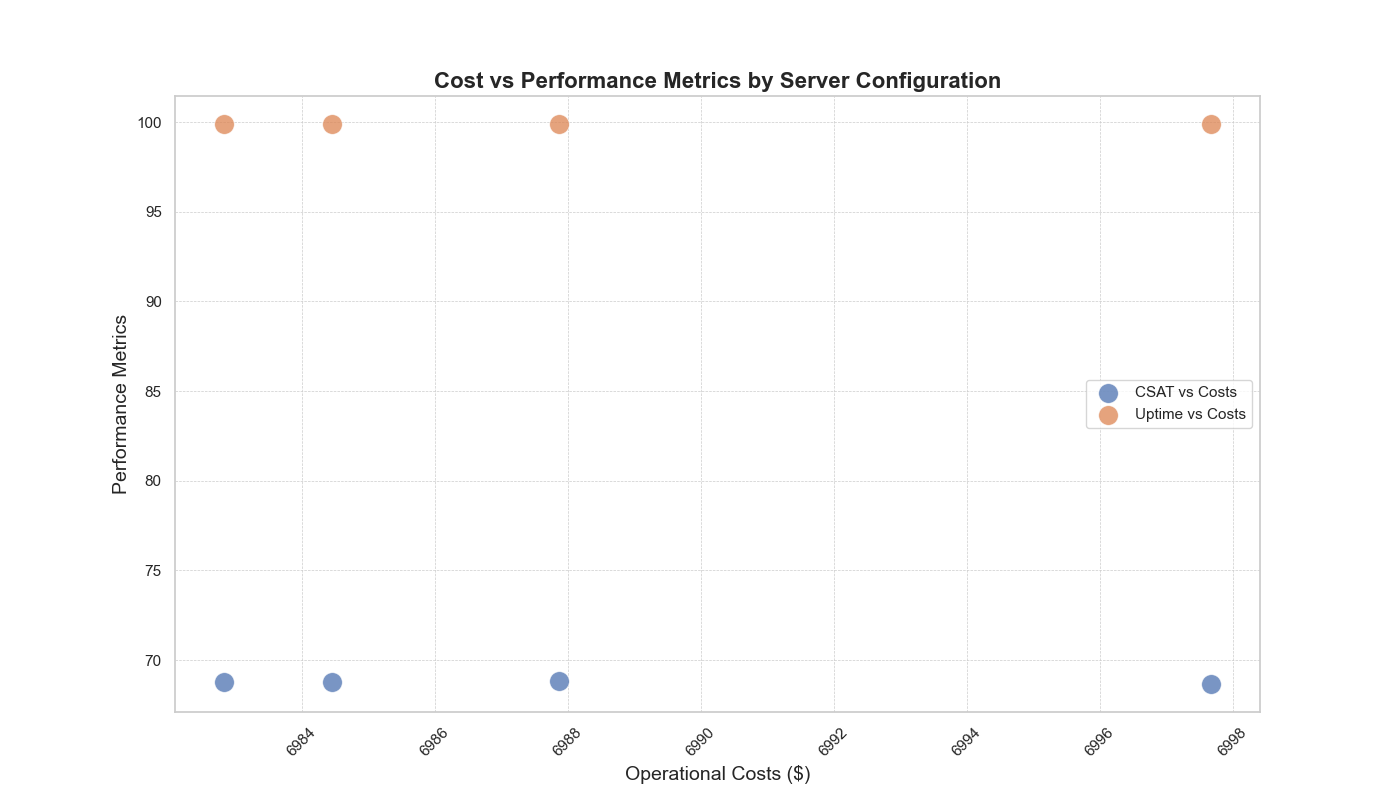
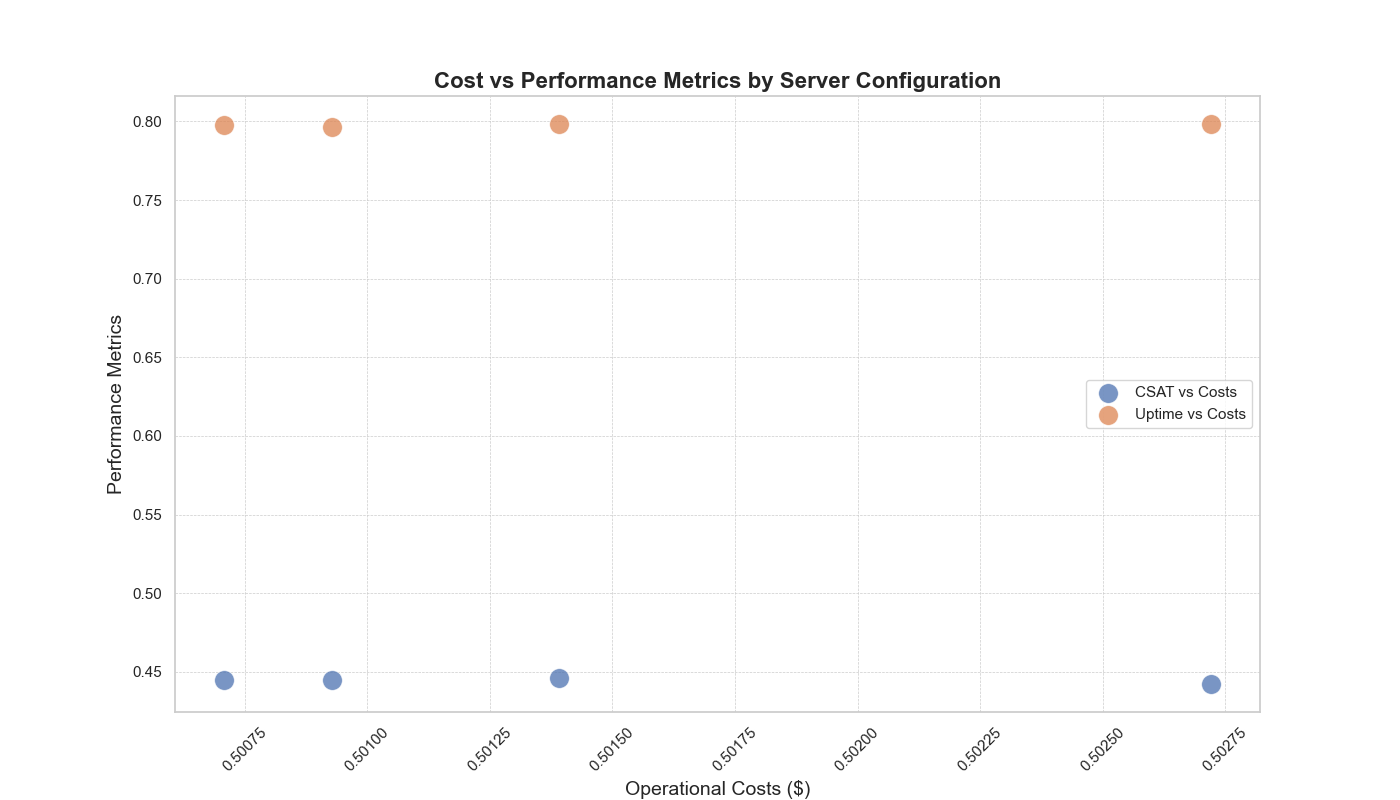
initial 3.0

diff --git a/main.py b/main.py
@@ -48,6 +48,8 @@ BUSINESS_METRICS = [
     "Response Time (ms)",
 ]
 
+# Combined features for clustering
+CLUSTERING_FEATURES = FEATURES + BUSINESS_METRICS
 
 def main():
     # Read data from CSV files
@@ -64,130 +66,62 @@ def main():
     print("Business Data Columns:", business_data.columns.tolist())
 
     # Step 1: Normalize the data
-    normalized_data = normalize_data(operational_data, FEATURES)
+    normalized_operational_data = normalize_data(operational_data, FEATURES)
+    normalized_business_data = normalize_data(business_data, BUSINESS_METRICS)
 
-    # Plot the combined bubble chart
-    plot_all_metrics_single_chart(normalized_data, FEATURES)
+    print("Operational Data Columns:", normalized_operational_data.columns.tolist())
+    print("Business Data Columns:", normalized_business_data.columns.tolist())
 
-    # Plot the bubble chart
-    plot_bubble_chart(operational_data)
+    # Merge the data on Timestamp and Server Configuration
+    combined_data = pd.merge(normalized_operational_data, normalized_business_data, on=["Timestamp", "Server Configuration"])
 
-    # Step 2: Clean and Scale Data
-    operational_data, X_scaled_cleaned = clean_and_scale_data(
-        operational_data, FEATURES
-    )
+    # Display the head of the merged data to verify
+    print("Combined Data Columns:", combined_data.columns.tolist())
+    print("Combined Data Head:\n", combined_data.head())
 
-    # Step 3: Apply K-Means Clustering
-    clusters_cleaned, kmeans = apply_kmeans_clustering(X_scaled_cleaned)
-    operational_data["cluster"] = clusters_cleaned
+    # Clean and scale the data
+    cleaned_data, scaled_data = clean_and_scale_data(combined_data, CLUSTERING_FEATURES)
 
-    # Step 4: Visualize Clusters
-    visualize_clusters(operational_data, FEATURES, clusters_cleaned)
+    # Apply K-Means clustering
+    clustered_data, kmeans_model = apply_kmeans_clustering(scaled_data, num_clusters=5)
 
-    # Step 5: Apply PCA and plot the results
-    pca_df, pca = apply_pca(X_scaled_cleaned, clusters_cleaned)
-    pca_loadings = get_pca_loadings(pca, FEATURES)
-    print("PCA Loadings:")
-    print(pca_loadings)
+    # Check the clustered data
+    print("Clustered Data Head:\n", clustered_data[:5])  # Use slicing for numpy array
 
-    # Save PCA loadings
-    pca_loadings.to_csv(os.path.join(OUTPUT_DIR, "pca_loadings.csv"))
+    # Add the cluster labels to the cleaned data
+    cleaned_data["cluster"] = clustered_data
 
-    # Plot PCA Loadings
-    plot_pca_loadings(pca_loadings)
+    # Verify the 'Cluster' column addition
+    print("Cleaned Data Columns after adding 'Cluster':", cleaned_data.columns.tolist())
 
-    # Step 6: Analyze Distributions and Variances within Clusters
-    analysis_results = analyze_distributions(operational_data, FEATURES)
-
-    # Step 7: Generate Optimization Recommendations
-    optimization_recommendations = generate_optimization_recommendations(
-        analysis_results
-    )
-    with open(os.path.join(OUTPUT_DIR, "optimization_recommendations.txt"), "w") as f:
-        for rec in optimization_recommendations:
-            f.write(rec + "\n")
-
-    # Ensure the cluster labels are also in the business data
-    business_data["cluster"] = operational_data["cluster"]
-
-    # Step 8: Calculate Cluster Business Summary
-    cluster_business_summary = calculate_cluster_business_summary(
-        business_data, BUSINESS_METRICS
-    )
-    print("Cluster Business Summary:")
-    print(cluster_business_summary)
-
-    # Save cluster business summary
-    cluster_business_summary.to_csv(
-        os.path.join(OUTPUT_DIR, "cluster_business_summary.csv")
-    )
-
-    # Plot Business Insights with Arrows
-    plot_business_insights_with_arrows(
-        cluster_business_summary, generate_business_insights(cluster_business_summary)
-    )
-
-    # Merge operational and business data for correlation analysis
-    combined_data = pd.merge(
-        operational_data,
-        business_data,
-        on=["Timestamp", "Server Configuration", "cluster"],
-    )
-
-    # Step 9: Generate Correlation Matrix
-    correlation_matrix = generate_correlation_matrix(
-        combined_data, BUSINESS_METRICS + FEATURES
-    )
-
-    # Save correlation matrix
-    correlation_matrix.to_csv(os.path.join(OUTPUT_DIR, "correlation_matrix.csv"))
-
-    # Step 10: Plot Temporal Trends of Business Metrics
-    # plot_temporal_trends(business_data, BUSINESS_METRICS)
-
-    # Step 11: Generate Cluster Profiles
+    # Generate cluster profiles
     cluster_profiles = generate_cluster_profiles(
-        combined_data, FEATURES, BUSINESS_METRICS
+        cleaned_data, FEATURES, BUSINESS_METRICS
     )
+
+    print("Cluster Profiles:\n", cluster_profiles)
 
     # Normalize cluster profiles for plotting
-    normalized_cluster_profiles = normalize_profiles(cluster_profiles)
-
-    # Step 12: Identify Best and Worst Performing Clusters
-    best_cluster, worst_cluster = identify_best_worst_clusters(
-        cluster_profiles, "Customer Satisfaction (CSAT)"
+    normalized_cluster_profiles = normalize_data(
+        cluster_profiles, FEATURES + BUSINESS_METRICS
     )
-    print(f"Best Performing Cluster: {best_cluster}")
-    print(f"Worst Performing Cluster: {worst_cluster}")
 
     # Save cluster profiles
     cluster_profiles.to_csv(os.path.join(OUTPUT_DIR, "cluster_profiles.csv"))
 
-    # Step 13: Generate Business Insights
-    business_insights = generate_business_insights(cluster_business_summary)
-    with open(os.path.join(OUTPUT_DIR, "business_insights.txt"), "w") as f:
-        for insight in business_insights:
-            f.write(insight + "\n")
+    # Plot summary statistics
+    plot_summary_statistics(combined_data, FEATURES + BUSINESS_METRICS)
 
-    # Step 14: Plot Resource Utilization Efficiency by Cluster
-    plot_resource_utilization_efficiency(normalized_cluster_profiles)
+    # Plot temporal trends
+    plot_temporal_trends(business_data, BUSINESS_METRICS)
 
-    # Step 15: Plot Cost-Benefit Analysis by Cluster
-    plot_cost_benefit_analysis(cluster_profiles)
+    # Visualize clusters
+    # visualize_clusters(cleaned_data, "cluster", FEATURES + BUSINESS_METRICS)
 
-    # Aggregate metrics by Server Configuration
-    server_config_summary = combined_data.groupby("Server Configuration")[
-        FEATURES + BUSINESS_METRICS
-    ].mean()
-
-    # Normalize server configuration summary for plotting
-    normalized_server_config_summary = normalize_profiles(server_config_summary)
-
-    # Step 16: Plot Performance Metrics by Server Configuration
-    plot_server_config_metrics(normalized_server_config_summary)
-
-    # Step 17: Plot Cost vs Performance Metrics by Server Configuration
-    plot_cost_vs_performance(server_config_summary)
+    # Apply PCA and plot the results
+    pca_df, pca = apply_pca(scaled_data, clustered_data)
+    pca_loadings = get_pca_loadings(pca, FEATURES)
+    print("PCA Loadings:\n", pca_loadings)
 
 
 if __name__ == "__main__":

diff --git a/visualization.py b/visualization.py
@@ -8,6 +8,7 @@ import pandas as pd
 from scipy.spatial import ConvexHull
 from utils import save_plot
 
+
 def plot_summary_statistics(data, features):
     """
     Plot summary statistics for the specified features.
@@ -16,10 +17,11 @@ def plot_summary_statistics(data, features):
     - data (pd.DataFrame): DataFrame containing the data.
     - features (list): List of features to plot summary statistics for.
     """
-    summary = data[features].describe().T
-    fig, ax = plt.subplots(figsize=(12, 8))
-    sns.heatmap(summary, annot=True, fmt=".2f", cmap="coolwarm", linewidths=0.5, ax=ax)
-    plt.title("Summary Statistics of Server Metrics", fontsize=16, weight="bold")
+    fig, axes = plt.subplots(len(features), 1, figsize=(10, 15))
+    for i, feature in enumerate(features):
+        sns.histplot(data[feature], kde=True, ax=axes[i])
+        axes[i].set_title(f"{feature} Distribution")
+    plt.tight_layout()
     save_plot(fig, "summary_statistics.png")
     plt.show()
 
@@ -80,20 +82,21 @@ def plot_bubble_chart(data):
 
 
 def plot_temporal_trends(data, metrics):
-    data["Timestamp"] = pd.to_datetime(data["Timestamp"])
-    data.set_index("Timestamp", inplace=True)
-    fig = plt.figure(figsize=(14, 8))
-    for metric in metrics:
-        data[metric].resample("D").mean().plot(label=metric)
-    plt.title("Temporal Trends of Business Metrics", fontsize=16)
-    plt.xlabel("Time")
-    plt.ylabel("Value")
-    plt.legend()
+    fig, axes = plt.subplots(len(metrics), 1, figsize=(10, 15))
+    for i, metric in enumerate(metrics):
+        data.plot(x="Timestamp", y=metric, ax=axes[i])
+        axes[i].set_title(f"Temporal Trend of {metric}")
+    plt.tight_layout()
     save_plot(fig, "temporal_trends.png")
     plt.show()
 
 
-def visualize_clusters(data, features, clusters):
+def visualize_clusters(data, cluster_labels, features):
+    sns.pairplot(data[features + [cluster_labels]], hue=cluster_labels)
+    plt.show()
+
+
+def visualize_all_labelled_non_labelled_clusters(data, features, clusters):
     """
     Visualize clusters using scatter plots.
 
